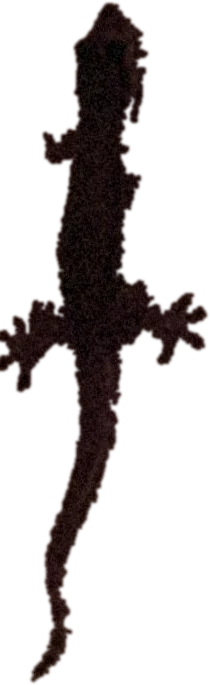
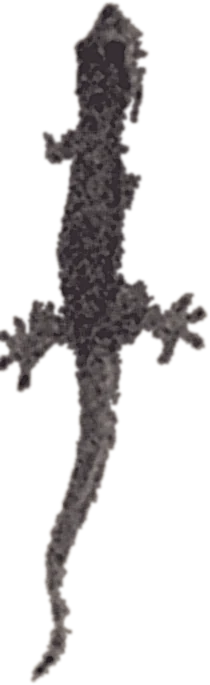
Quiz-guarded envelope, months lit to August, visible lizard, final letter
- The envelope is now guarded by a 5-question sibling quiz that starts when
  the beat scrolls into view. Opens at 3 correct answers, or after all 5
  regardless ("it's Rakhi"). Wrong answers make the envelope bolt with the
  circle lunging after it; right answers make it hop. Tapping the envelope
  early: "Answer her first." Escape hatch appears from Q4.
- Q3 is rigged: choosing anything under 5 stars triggers "Are you SURE you
  don't want to select 5?" and both replies are recorded as a 5-star rating.
- Months panel now lights JAN through the current month (August on Rakhi)
  with a stagger when the panel arrives; SEP-DEC stay dim — the rest of the
  year is still there to fix.
- Lizard rebuilt as a clean duotone: the shadow-lift exposed rainbow chroma
  noise from the night photo, so her denoised luminance is remapped
  plum-gray to pale gecko-gray. Texture, toes, and tail now visible against
  the blush background instead of a black blob.
- Letter replaced with the sender's corrected text (weekends, PC, the heat,
  "Why? Cuz why not"), and the "sometimes I think I don't talk to you much"
  line set smaller and lighter as asked. Gujarati aside removed per the new
  draft.
- Fixed: the rating-insist chips were dead because `resolving` was never
  released before they rendered.

Verified end-to-end by driving the DOM: full quiz path with the rigged
rating, early-open at 3 correct, months lit = 8, letter text checks, no
console errors.

Changed region(s): [[0.0, 0.0, 1.0, 1.0]]

diff --git a/js/main.js b/js/main.js
@@ -12,11 +12,47 @@ const CONFIG = {
   occasion: "to the one who has had my back since before either of us had a choice",
   date:     "",                   // "" = today's date, or write your own
 
-  // The teasing bubbles while the envelope dodges. The last one always opens it.
-  dodges: [
-    "nope. not yet.",
-    "you were always this impatient.",
-    "okay okay okay — just open it."
+  // The quiz guarding the envelope. It opens at 3 correct answers,
+  // or after all 5 questions regardless. Q3 is rigged: the rating is 5.
+  quiz: [
+    {
+      q: "First — what did we actually DO on Raksha Bandhan?",
+      a: ["Tie the rakhi, obviously", "I don't know", "Some grand family ritual"],
+      correct: 1,
+      right: "Exactly. Nobody remembers. That's our tradition.",
+      wrong: "Don't lie. Neither of us knows."
+    },
+    {
+      q: "The smartwatch you gifted me — am I using it?",
+      a: ["Yes, every day", "No", "What smartwatch?"],
+      correct: 1,
+      right: "Correct. It sleeps in a drawer. Peacefully.",
+      wrong: "Cute of you to think so. Drawer. Since day one."
+    },
+    {
+      special: "rating",
+      q: "What rating does this website get?",
+      a: ["3 stars", "4 stars", "5 stars"],
+      correct: 2,
+      right: "Correct. Obviously.",
+      insist: "Are you SURE you don't want to select 5? ⭐",
+      thanks: "Thank you for the 5-star rating. ❤",
+      fine:   "Wise choice."
+    },
+    {
+      q: "Who is the favourite child at home?",
+      a: ["Me, clearly", "My brother"],
+      correct: 0,
+      right: "Correct. I've made peace with it.",
+      wrong: "Liar. We both know it's you."
+    },
+    {
+      q: "How many times did we say “I'll call this weekend” this year?",
+      a: ["Twice", "Never", "Lost count"],
+      correct: 2,
+      right: "And yet. Here we are.",
+      wrong: "“Lost count.” The answer was “lost count.”"
+    }
   ]
 };
 /* =====================================================================
@@ -157,11 +193,21 @@ function horizontalGap() {
 
   const maxScroll = () => Math.max(1, sc.scrollWidth - sc.clientWidth);
 
+  // light the months up to NOW (August on Rakhi) — the year so far,
+  // gone by without a call. SEP–DEC stay dim: still time to fix it.
+  const litCount = Math.min(12, new Date().getMonth() + 1);
+  let monthsDone = false;
+  function lightMonths() {
+    if (monthsDone) return;
+    monthsDone = true;
+    months.slice(0, litCount).forEach((m, i) =>
+      setTimeout(() => m.classList.add("lit"), 260 + i * 170));
+  }
+
   function update() {
     const p = sc.scrollLeft / maxScroll();
     bar.style.width = (p * 100).toFixed(1) + "%";
-    const lit = Math.round(p * months.length);
-    months.forEach((m, i) => m.classList.toggle("lit", i < lit));
+    if (sc.scrollLeft >= sc.clientWidth * .5) lightMonths();   // months panel arriving
     prev.disabled = sc.scrollLeft <= 2;
     next.disabled = sc.scrollLeft >= maxScroll() - 2;
     if (sc.scrollLeft > 40) hint.classList.add("is-gone");
@@ -311,7 +357,8 @@ function envelope() {
   const giveup  = $("#giveup");
   const hint    = $("#envHint");
 
-  let dodges = 0, opened = false, busy = false;
+  const quizBox = $("#quiz");
+  let qi = 0, correct = 0, opened = false, quizStarted = false, resolving = false;
 
   gsap.set(rakhi, { scale: .82, y: 0 });
 
@@ -335,8 +382,9 @@ function envelope() {
                 duration: .9, ease: "elastic.out(1,.45)" });
   }
 
-  /* a message, stacked in its own reserved row — never covered */
-  function bubble(text, hot) {
+  /* a message, stacked in its own reserved row — never covered.
+     stay:true = a question that waits to be answered (no auto-fade). */
+  function bubble(text, hot, stay) {
     const b = document.createElement("div");
     b.className = "bubble" + (hot ? " bubble--gold" : "");
     b.textContent = text;
@@ -349,10 +397,12 @@ function envelope() {
       { opacity: 0, scale: .8, x: -14 },
       { opacity: 1, scale: 1, x: 0, duration: .5, ease: "back.out(2.4)" });
 
-    gsap.to(b, {
-      opacity: 0, x: -10, duration: .5, delay: 4.2, ease: "power2.in",
-      onComplete: () => b.remove()
-    });
+    if (!stay) {
+      gsap.to(b, {
+        opacity: 0, x: -10, duration: .5, delay: 4.2, ease: "power2.in",
+        onComplete: () => b.remove()
+      });
+    }
   }
 
   /* dodge — the stage is full-bleed, so it has real room to run */
@@ -416,25 +466,89 @@ function envelope() {
     }, 450);
   }
 
-  function poke() {
-    if (opened || busy) return;
+  /* ------------- THE QUIZ — she opens at 3 correct, or after all 5 ------------- */
 
-    if (dodges < CONFIG.dodges.length) {
-      busy = true;
-      bubble(CONFIG.dodges[dodges], dodges === CONFIG.dodges.length - 1);
-      dodge();
-      dodges++;
-      if (dodges >= 2) giveup.hidden = false;
-      setTimeout(() => { busy = false; }, 430);   // a fast double-tap shouldn't burn two
-      return;
-    }
-    open();
+  function hop() {
+    if (REDUCED) return;
+    gsap.to(env, { y: "-=16", duration: .18, yoyo: true, repeat: 1, ease: "power2.out", overwrite: "auto" });
   }
 
-  env.addEventListener("click", poke);
+  function renderChoices(labels, cb) {
+    quizBox.innerHTML = "";
+    labels.forEach((label, i) => {
+      const btn = document.createElement("button");
+      btn.className = "chip";
+      btn.textContent = label;
+      btn.addEventListener("click", () => { if (!resolving) cb(i); });
+      quizBox.appendChild(btn);
+    });
+    gsap.fromTo(quizBox.children,
+      { opacity: 0, y: 10 },
+      { opacity: 1, y: 0, duration: .45, stagger: .07, ease: "expo.out" });
+  }
+
+  function nextQuestion(delay) {
+    qi++;
+    quizBox.innerHTML = "";
+    setTimeout(() => { resolving = false; ask(); }, delay);
+  }
+
+  function ask() {
+    if (opened) return;
+    if (correct >= 3) { finish(true); return; }
+    if (qi >= CONFIG.quiz.length) { finish(false); return; }
+    if (qi >= 3) giveup.hidden = false;          // escape hatch for the impatient
+    const q = CONFIG.quiz[qi];
+    bubble(q.q, false, true);
+    renderChoices(q.a, i => answer(q, i));
+  }
+
+  function answer(q, i) {
+    resolving = true;
+
+    if (q.special === "rating" && i !== q.correct) {
+      // the rating is 5. this is not negotiable.
+      bubble(q.insist, false, true);
+      renderChoices(["Fine, 5 stars", "No"], sel => {
+        resolving = true;
+        correct++;                               // rigged either way
+        bubble(sel === 1 ? q.thanks : q.fine, true);
+        hop();
+        nextQuestion(1900);
+      });
+      resolving = false;                         // the insist choices must be live
+      return;
+    }
+
+    const ok = i === q.correct;
+    if (ok) { correct++; bubble(q.right, true); hop(); }
+    else    { bubble(q.wrong); dodge(); }
+    nextQuestion(1900);
+  }
+
+  function finish(passed) {
+    quizBox.innerHTML = "";
+    bubble(passed
+      ? "Fine. " + correct + " right. She approves — opening it."
+      : "That was genuinely bad. Opening it anyway — it's Rakhi.", true);
+    setTimeout(open, 1300);
+  }
+
+  // start once, when this beat scrolls into view
+  ScrollTrigger.create({
+    trigger: "#envSec", start: "top 60%", once: true,
+    onEnter: () => { if (!quizStarted) { quizStarted = true; setTimeout(ask, 700); } }
+  });
+
+  // poking the envelope early just makes it run
+  env.addEventListener("click", () => {
+    if (opened) return;
+    bubble("Answer her first.");
+    dodge();
+  });
   giveup.addEventListener("click", () => { if (!opened) open(); });
   env.addEventListener("keydown", e => {
-    if (e.key === "Enter" || e.key === " ") { e.preventDefault(); poke(); }
+    if (e.key === "Enter" || e.key === " ") { e.preventDefault(); e.target.click(); }
   });
 
   window.addEventListener("resize", () => {

diff --git a/index.html b/index.html
@@ -177,7 +177,7 @@ window.__failsafe = setTimeout(function () {
   <section class="sec sec--env" id="envSec">
     <div class="wrap wrap--tight">
       <h2 class="big reveal-up">There&rsquo;s one<br>more thing.</h2>
-      <p class="body reveal-up" id="envHint">Go ahead. Tap it.</p>
+      <p class="body reveal-up" id="envHint">She&rsquo;s guarding it. Answer her questions.</p>
     </div>
 
     <!-- reserved row: the circle and its messages. The envelope roams the
@@ -186,6 +186,9 @@ window.__failsafe = setTimeout(function () {
       <span class="me" id="me" aria-hidden="true"></span>
       <div class="bubbles" id="bubbles" aria-live="polite"></div>
     </div>
+
+    <!-- quiz answers appear here, never under the envelope -->
+    <div class="quiz" id="quiz"></div>
 
     <div class="stage" id="stage">
       <button class="env" id="env" aria-label="Open the letter">
@@ -213,14 +216,17 @@ window.__failsafe = setTimeout(function () {
         <!-- the letter — written by the sender, not by a template -->
         <div class="paper__body" id="paperBody">
           <p>Yo,</p>
-          <p>It&rsquo;s been a very long time since we last interacted with each other. I know &mdash; we were too busy with our work.</p>
+          <p class="paper__big">Happy Raksha Bandhan.</p>
+          <p>It&rsquo;s been a very long time since we last interacted with each other (in any way). I know &mdash; we were too busy with our work.</p>
           <p>I had trapped myself with so much work that I even forgot to wish you on your birthday. Never mind.</p>
           <p>I will just write something in short:</p>
-          <p class="paper__big">Happy Raksha Bandhan.</p>
-          <p>&mdash; In past, you were just working and working all day [without attending college most of the time].</p>
-          <p>&mdash; So I hope you are having a good time there (now).</p>
-          <p>&mdash; Khali time pas karu 6u, atlu dhyanthi na vanchis&hellip; kasu emotional nathi lakhto.</p>
-          <p>I wanted to give you a gift, but I don&rsquo;t actually know where you live either. So I&rsquo;m sending one via this site &mdash; at the last, there is one box. That&rsquo;s your gift.</p>
+          <p>&mdash; So I hope you are having a good time there (now) [as there is no college now].</p>
+          <p>&mdash; How are your weekends going? (Mine are just: sleep all day, play something on the PC on repeat, not going outside due to the heat.)</p>
+          <p>&mdash; I am not writing any fancy or emotional things here, so don&rsquo;t read it with concentration.</p>
+          <p>&mdash; It&rsquo;s just that I had free time (no work in office), so I made all of this which I didn&rsquo;t need to make.</p>
+          <p>I wanted to give you a gift, but I don&rsquo;t actually know what to gift &mdash; and also where you live. So I&rsquo;m sending a gift via this site (Why? Cuz why not).</p>
+          <p>At the last, there is one box &mdash; yeah, that&rsquo;s your gift.</p>
+          <p class="paper__quiet">Sometimes I think that I don&rsquo;t talk to you much, or never open up to you as I should have. Let me know what you feel about it.</p>
         </div>
 
         <p class="paper__sign">

diff --git a/css/style.css b/css/style.css
@@ -302,7 +302,7 @@ button{font:inherit;color:inherit;background:none;border:0;cursor:pointer}
 .sayrow{
   position:relative;z-index:9;
   width:100%;max-width:660px;margin:clamp(16px,3vh,30px) auto 0;
-  min-height:clamp(78px,11vh,102px);
+  min-height:clamp(68px,9.6vh,94px);
   display:flex;align-items:flex-end;gap:12px;
 }
 .me{
@@ -329,12 +329,19 @@ button{font:inherit;color:inherit;background:none;border:0;cursor:pointer}
 }
 .bubble--gold{background:var(--gold-2);color:var(--ink)}
 
+/* quiz answers — their own row, never under the roaming envelope */
+.quiz{
+  width:100%;max-width:660px;margin:clamp(12px,2.4vh,22px) auto 0;
+  min-height:54px;
+  display:flex;flex-wrap:wrap;gap:9px;align-content:flex-start;
+}
+
 /* full-bleed stage so the envelope has real room to run */
 .stage{
   position:relative;
   margin-left:calc(-1 * var(--pad));
   margin-right:calc(-1 * var(--pad));
-  min-height:clamp(290px,40svh,420px);
+  min-height:clamp(248px,33svh,390px);
   display:flex;align-items:center;justify-content:center;
   touch-action:manipulation;
 }
@@ -430,6 +437,10 @@ button{font:inherit;color:inherit;background:none;border:0;cursor:pointer}
 .paper__body p{margin:0 0 .9em}
 .paper__body p:last-child{margin-bottom:0}
 .paper__big{font-size:1.35em;font-weight:700;color:var(--pink)}
+.paper__quiet{
+  font-size:.72em;line-height:1.55;color:var(--ink-3);
+  margin-top:1.6em !important;
+}
 .paper__sign{margin:clamp(32px,7vw,50px) 0 0;display:flex;flex-direction:column;gap:3px}
 .paper__signfrom{font-size:10px;font-weight:700;letter-spacing:.24em;text-transform:uppercase;color:var(--ink-3)}
 .paper__signname{font-family:var(--f-hand);font-weight:700;font-size:clamp(27px,7vw,38px);color:var(--pink)}
@@ -542,3 +553,4 @@ html.no-motion .paper,html.no-motion #paperBody p,html.no-motion .paper__sign{op
 html.no-motion .gift__lid{transform:translateY(-90%) rotate(-16deg)}
 html.no-motion .lizard{display:block;left:auto;right:18px;top:auto;bottom:16px}
 html.no-motion .lizard[hidden]{display:block !important}
+html.no-motion .quiz{display:none}
